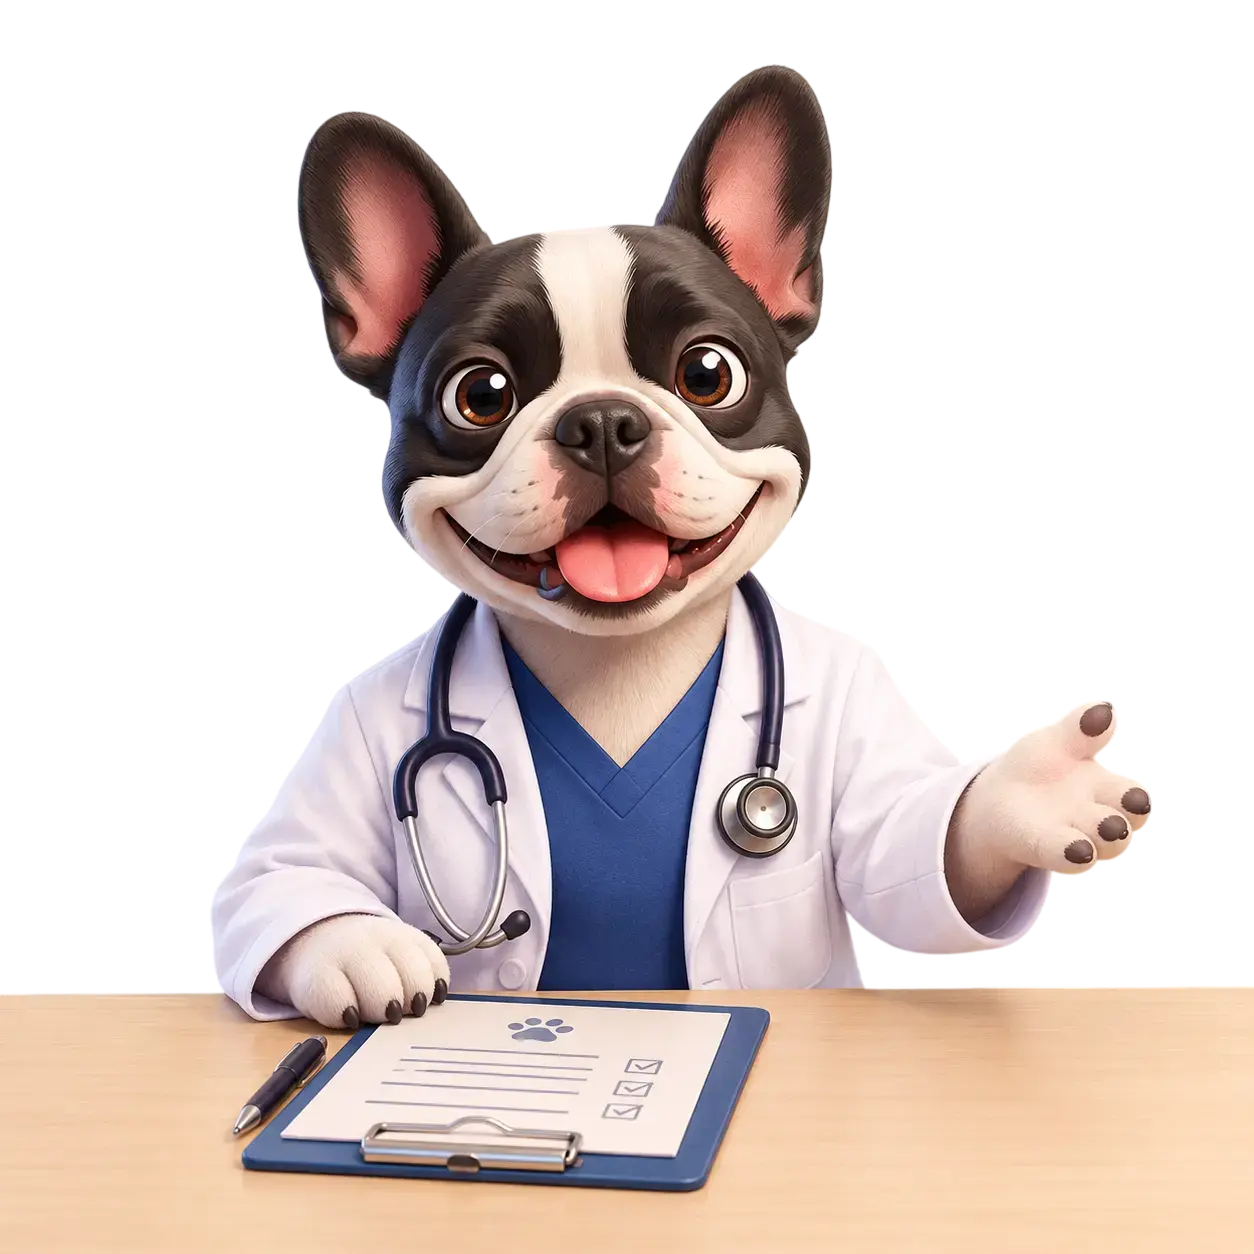
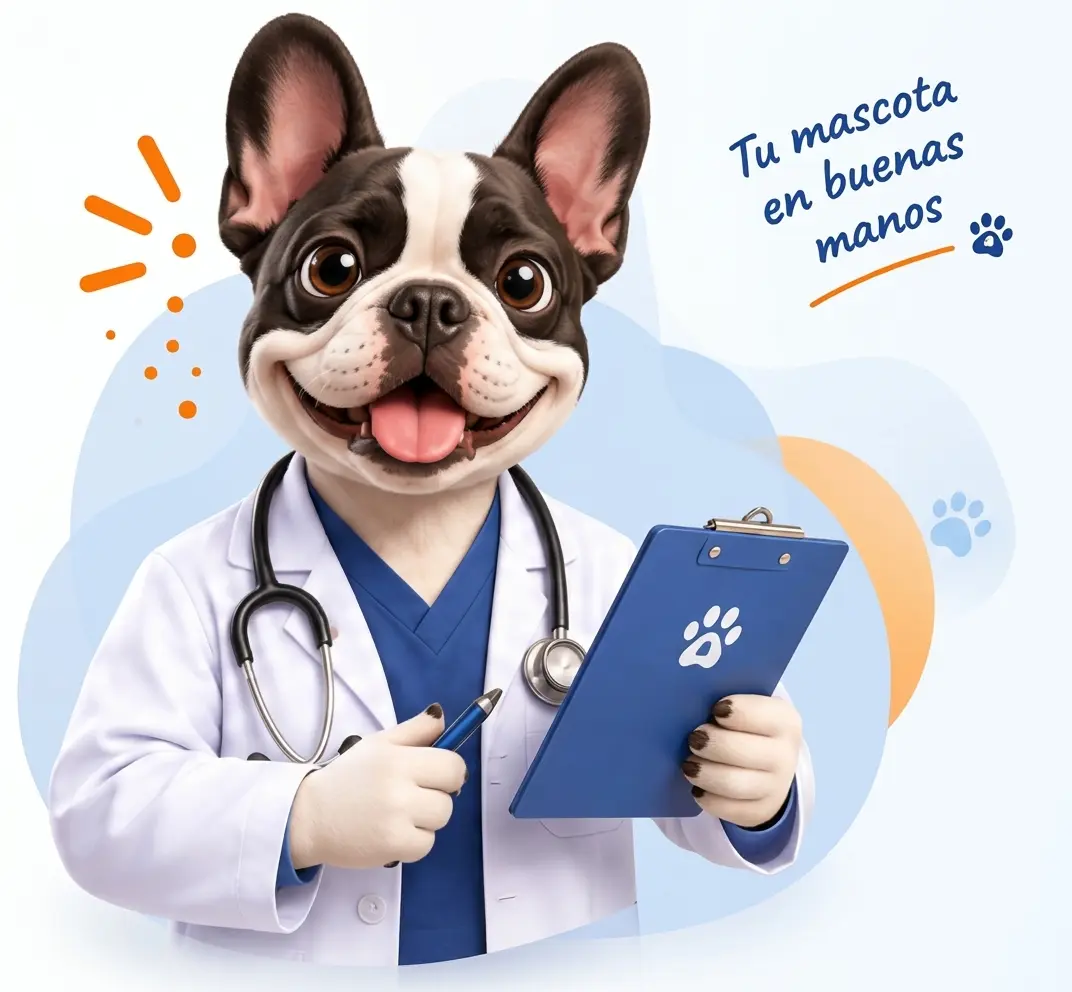
ux: paso doctor con ilustración completa de maqueta (kicker pin, microcopy info, cascada de fotos en /images/doctores, mix-blend-multiply)

diff --git a/src/medical/App.tsx b/src/medical/App.tsx
@@ -2,7 +2,7 @@ import { useCallback, useEffect, useRef, useState } from "react";
 import { AnimatePresence, motion, useReducedMotion } from "framer-motion";
 import {
   ArrowRight, CalendarDays, CheckCircle2, Check, ChevronLeft, ChevronRight,
-  ClipboardList, Clock, FileCheck2, FileX2, FileWarning, Heart, Loader2, MapPin, Microscope, Phone,
+  ClipboardList, Clock, FileCheck2, FileX2, FileWarning, Heart, Info, Loader2, MapPin, Microscope, Phone,
   ScanLine, ShieldCheck, Stethoscope, UserRound, type LucideIcon,
 } from "lucide-react";
 import {
@@ -557,9 +557,9 @@ export default function App() {
               {step === "doctor" && (
                 <section className="grid items-center gap-4 lg:grid-cols-[1.05fr_0.95fr] lg:gap-8">
                   <div>
-                    <div className="mb-1.5 flex items-center gap-2.5">
-                      <span className="h-1 w-6 rounded-full bg-orange-500" aria-hidden />
-                      <p className="text-[11px] font-bold uppercase tracking-[0.18em] text-orange-600">Sede {branch?.short ?? ""}</p>
+                    <div className="mb-1.5 flex items-center gap-1.5">
+                      <MapPin className="h-4 w-4 text-brand-orange" strokeWidth={2.5} />
+                      <p className="text-[11px] font-bold uppercase tracking-[0.18em] text-brand-orange">Sede {branch?.short ?? ""}</p>
                     </div>
                     <h2 className="mb-5 font-display text-3xl font-bold leading-[1.12] tracking-tight text-[#475AAB] sm:text-4xl">
                       <span className="block">Elige al especialista</span>
@@ -587,9 +587,7 @@ export default function App() {
                           animate={{ opacity: 1, y: 0 }}
                           transition={{ duration: reduceMotion ? 0.2 : 0.35, ease: "easeOut", delay: 0.2 + i * 0.08 }}
                         >
-                          <span className="flex h-12 w-12 shrink-0 items-center justify-center rounded-full bg-gradient-to-br from-[#EFF6FF] to-[#DCEBFF]">
-                            <Stethoscope className="h-6 w-6 text-blue-600" />
-                          </span>
+                          <DoctorAvatar name={d.name} />
                           <span className="min-w-0 flex-1">
                             <span className="block font-display text-lg font-bold text-[#1A2238]">{d.name}</span>
                             <span className="block text-xs text-[#546A8E]">{d.specialty ?? "Medicina Veterinaria General"}</span>
@@ -601,28 +599,16 @@ export default function App() {
                       ))}
                     </div>
                     {doctors && doctors.length > 0 && (
-                      <p className="mt-3 text-[11px] text-[#8A97B1]">
-                        ¿No sabes a quién elegir? Cualquiera de ellos te atendrá muy bien — al pasar se agendará directo.
+                      <p className="mt-3 flex items-start gap-2 text-[11px] leading-relaxed text-[#546A8E]">
+                        <Info className="mt-0.5 h-4 w-4 shrink-0 rounded-full bg-[#EFF5FC] p-0.5 text-blue-600" />
+                        ¿No sabes a quién elegir? Cualquiera de ellos te atenderá muy bien — al pasar se agendará directo.
                       </p>
                     )}
                   </div>
 
-                  {/* Mascota del equipo médico (doctor.webp: en recepción) */}
-                  <div className="relative mx-auto hidden w-full justify-center sm:flex">
-                    <motion.img
-                      src={MASCOT.doctor}
-                      alt="Nuestro equipo médico te espera"
-                      className="h-64 w-auto select-none self-center object-contain lg:h-80"
-                      draggable={false}
-                      initial={{ opacity: 0, scale: reduceMotion ? 1 : 0.88, y: reduceMotion ? 0 : 10 }}
-                      animate={{ opacity: 1, scale: 1, y: 0 }}
-                      transition={{ duration: reduceMotion ? 0.2 : 0.45, ease: "easeOut", delay: 0.15 }}
-                    />
-                    <div
-                      aria-hidden
-                      className="pointer-events-none absolute inset-x-0 bottom-0 h-12 bg-gradient-to-t from-white via-white/70 to-transparent sm:h-16"
-                    />
-                  </div>
+                  {/* Mascota del equipo médico (doctor.webp: en recepción).
+                      Si el asset aún no existe, la columna se esconde (sin icono roto). */}
+                  <DoctorMascot />
                 </section>
               )}
 
@@ -1007,6 +993,66 @@ function StepHeading({ kicker, children }: { kicker?: string; children: React.Re
       )}
       <h2 className="text-step-title font-display font-bold tracking-tight text-[#475AAB]">{children}</h2>
     </div>
+  );
+}
+
+// Mascota del paso doctor con fundido blanco; si el webp falta, la
+// columna desaparece (patrón de cascada de /estado, sin icono roto).
+function DoctorMascot() {
+  const reduceMotion = useReducedMotion() ?? false;
+  const [hidden, setHidden] = useState(false);
+  if (hidden) return null;
+  return (
+    <div className="relative mx-auto hidden w-full justify-center sm:flex">
+      <motion.img
+        src={MASCOT.doctor}
+        alt="Nuestro equipo médico te espera"
+        className="h-64 w-auto select-none self-center object-contain mix-blend-multiply lg:h-80"
+        draggable={false}
+        onError={() => setHidden(true)}
+        initial={{ opacity: 0, scale: reduceMotion ? 1 : 0.88, y: reduceMotion ? 0 : 10 }}
+        animate={{ opacity: 1, scale: 1, y: 0 }}
+        transition={{ duration: reduceMotion ? 0.2 : 0.45, ease: "easeOut", delay: 0.15 }}
+      />
+      <div
+        aria-hidden
+        className="pointer-events-none absolute inset-x-0 bottom-0 h-12 bg-gradient-to-t from-white via-white/70 to-transparent sm:h-16"
+      />
+    </div>
+  );
+}
+
+// Avatar del doctor: intenta la foto real en /images/doctores/{slug}.webp
+// (ej. dra-karla.webp — el counter las suelta ahí y aparecen solas);
+// si no existe aún, estetoscopio sobre degradado azul.
+function doctorPhotoSrc(name: string): string {
+  const slug = name
+    .toLowerCase()
+    .normalize("NFD")
+    .replace(/[\u0300-\u036f]/g, "")
+    .replace(/[^a-z0-9]+/g, "-")
+    .replace(/^-|-$/g, "");
+  return `/images/doctores/${slug}.webp`;
+}
+
+function DoctorAvatar({ name }: { name: string }) {
+  const [failed, setFailed] = useState(false);
+  if (failed) {
+    return (
+      <span className="flex h-12 w-12 shrink-0 items-center justify-center rounded-full bg-gradient-to-br from-[#EFF6FF] to-[#DCEBFF] ring-1 ring-[#DCEBFF]">
+        <Stethoscope className="h-6 w-6 text-blue-600" />
+      </span>
+    );
+  }
+  return (
+    <img
+      src={doctorPhotoSrc(name)}
+      alt={`Foto de ${name}`}
+      loading="lazy"
+      onError={() => setFailed(true)}
+      draggable={false}
+      className="h-12 w-12 shrink-0 select-none rounded-full object-cover ring-1 ring-[#DCEBFF]"
+    />
   );
 }
 

diff --git a/PLAN.md b/PLAN.md
@@ -933,6 +933,28 @@ Doctores (3 por sede), especialidades con precios arriba. Todo editable desde el
   lógica (mismos onClick/estados). Gates: lint 0, typecheck doble 0,
   build OK, 252 tests, e2e 10/10, captura con mock de doctores sin
   pageerrors. SIN REVISIÓN VISUAL final del usuario.
+- 2026-10-24 — **PASO DOCTOR: PULIDO MAQUETA 4ª (referencia (2).png) +
+  CASCADA DE FOTOS DE DOCTORES**: ① kicker de sede pasa de guioncito a
+  ICONO MapPin naranja + texto (como la maqueta — aplica también a
+  orden? no, solo doctor); ② microcopy con icono ⓘ azul; ③ avatar del
+  doctor: cascada foto real → estetoscopio — las fotos irán en
+  public/images/doctores/{slug}.webp (slug del nombre: dr-andres,
+  dra-karla...; NFD sin acentos, espacios→"-") y aparecen solas cuando
+  el usuario las suelte; SIN foto repetida de placeholder (decisión
+  mía explicada: repetida se ve barata, el icono queda pro);
+  ④ mascota doctor con fundido + SE ESCONDE si el webp falta
+  (DoctorMascot con onError→null — sin icono roto); ERROR MÍO: rm
+  mal encadenado BORRÓ doctor (2).webp del usuario (no estaba en git)
+  → pedir re-subida; el doctor.webp viejo también fuera (solo se usaba
+  aquí).   ESTADO: doctor.webp/referencia pendiente del usuario; resto
+  gates verdes (lint 0, tc doble 0, build OK, 252 tests, e2e 10/10,
+  captura con mock sin pageerrors). Pendiente commit+push.
+- 2026-10-24 — doctor.webp RE-SUBIDO por el usuario (la ilustración
+  completa de la 4ª maqueta con "Tu mascota en buenas manos" Caveat
+  horneado) + mix-blend-multiply para integrar su fondo suave con la
+  card blanca (sin borde de rectángulo). Captura final verificada con
+  mock: paso doctor idéntico ala maqueta. Commit+push (la referencia
+  NO se sube — guía local sola).
 
 ---
 
